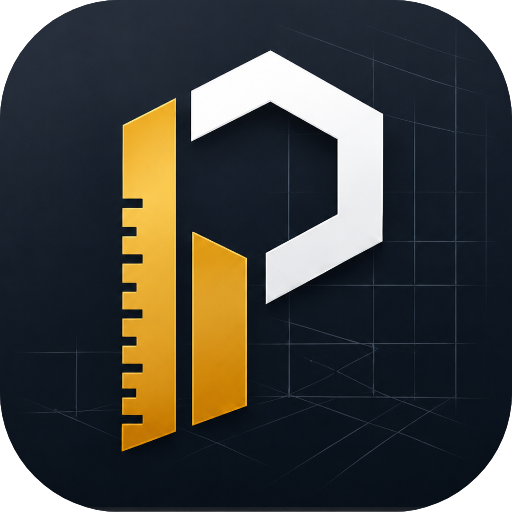
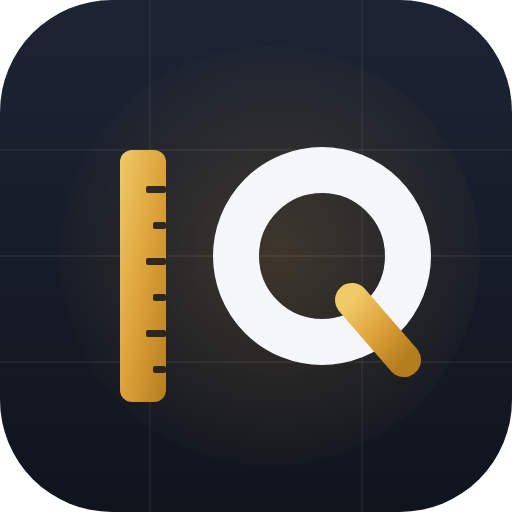
Renomeia o app para "Quantiza" com novo ícone (marca Q)
"Prumo IA" já estava registrado; troca para Quantiza (de "quantitativo").
Mantém a identidade aprovada (azul-marinho + dourado + malha de planta),
trocando a marca de P para Q.

- Novo ícone: régua dourada + "Q" branco (com cauda dourada) sobre o tile
  navy com malha; SVG-fonte + PNGs 192/512 e apple-touch regenerados.
- Nome trocado em título, meta, apple-title, cabeçalhos (login e app),
  manifest, README e CLAUDE.md. Wordmark "Quanti·za" (za em dourado).
- Slogan: "Inteligência que quantifica sua obra". Versão 5.3, cache v29.

Paleta e tema claro/escuro inalterados. Repositório e URL do GitHub Pages
continuam "levantamento-obra".

Testado no navegador: título e cabeçalho "Quantiza" com o novo ícone, sem
erros de página.

Claude-Session: https://claude.ai/code/session_01XvWdRauVmr8EZz24E2LHMu

diff --git a/index.html b/index.html
@@ -5,12 +5,12 @@
   <meta http-equiv="Content-Security-Policy" content="default-src 'self'; script-src 'self'; style-src 'self' 'unsafe-inline'; img-src 'self' data: blob:; font-src 'self'; connect-src 'self' https://*.supabase.co https://api.anthropic.com; worker-src 'self'; object-src 'none'; base-uri 'self'; form-action 'self'" />
   <meta name="viewport" content="width=device-width, initial-scale=1.0" />
   <meta name="theme-color" content="#161e29" />
-  <meta name="description" content="Prumo IA — levantamento de quantitativos de obra a partir de plantas em PDF, com IA de visão, medição precisa e orçamento" />
+  <meta name="description" content="Quantiza — levantamento de quantitativos de obra a partir de plantas em PDF, com IA de visão, medição precisa e orçamento" />
   <meta name="mobile-web-app-capable" content="yes" />
   <meta name="apple-mobile-web-app-capable" content="yes" />
   <meta name="apple-mobile-web-app-status-bar-style" content="black-translucent" />
-  <meta name="apple-mobile-web-app-title" content="Prumo IA" />
-  <title>Prumo IA — levantamento de obra</title>
+  <meta name="apple-mobile-web-app-title" content="Quantiza" />
+  <title>Quantiza — levantamento de obra</title>
   <link rel="manifest" href="manifest.json" />
   <link rel="icon" type="image/png" sizes="192x192" href="icons/icon-192.png" />
   <link rel="icon" type="image/png" sizes="512x512" href="icons/icon-512.png" />
@@ -23,8 +23,8 @@
     <div class="login-caixa">
       <div class="login-marca">
         <img src="icons/icon-192.png" alt="" />
-        <h1>Prumo <span>IA</span></h1>
-        <p class="marca-slogan">Intelig&ecirc;ncia que constr&oacute;i precis&atilde;o</p>
+        <h1>Quanti<span>za</span></h1>
+        <p class="marca-slogan">Intelig&ecirc;ncia que quantifica sua obra</p>
       </div>
       <p class="dica" id="login-msg">Entre com sua conta para acessar.</p>
       <label class="campo-label">E-mail</label>
@@ -50,7 +50,7 @@
   <header class="topbar">
     <div class="marca">
       <img src="icons/icon-192.png" alt="" />
-      <h1 class="titulo">Prumo <span>IA</span></h1>
+      <h1 class="titulo">Quanti<span>za</span></h1>
     </div>
 
     <div class="proj-ctrl">
@@ -191,8 +191,8 @@
           <span id="selo-plano" class="selo-plano" hidden></span>
           <a href="#" id="lnk-planos">Ver planos</a>
         </p>
-        <p class="dica" id="versao-app">Prumo IA &middot; Intelig&ecirc;ncia que constr&oacute;i precis&atilde;o</p>
-        <p class="dica" style="margin-top:2px">Vers&atilde;o 5.2 &middot; 23/07/2026</p>
+        <p class="dica" id="versao-app">Quantiza &middot; Intelig&ecirc;ncia que quantifica sua obra</p>
+        <p class="dica" style="margin-top:2px">Vers&atilde;o 5.3 &middot; 23/07/2026</p>
       </section>
     </aside>
   </main>

diff --git a/sw.js b/sw.js
@@ -1,5 +1,5 @@
 // Service Worker — Levantamento de Obra
-const CACHE = 'levantamento-v28';
+const CACHE = 'levantamento-v29';
 const ASSETS = [
   './',
   './index.html',

diff --git a/CLAUDE.md b/CLAUDE.md
@@ -1,14 +1,14 @@
-# Prumo IA — guia do projeto
+# Quantiza — guia do projeto
 
-**Prumo IA** (antes "Levantamento de Obra") — app web (PWA) de levantamento de
-quantitativos de obra a partir de plantas em PDF, inspirado num app visto em
-reel do Instagram e expandido para coordenação de obra completa. Interface
-100% em pt-BR. O nome só mudou na marca (título, manifest, ícone); o
-repositório e a URL do GitHub Pages continuam `levantamento-obra`.
+**Quantiza** (antes "Prumo IA" / "Levantamento de Obra") — app web (PWA) de
+levantamento de quantitativos de obra a partir de plantas em PDF, inspirado
+num app visto em reel do Instagram e expandido para coordenação de obra
+completa. Interface 100% em pt-BR. O nome só muda na marca (título, manifest,
+ícone); o repositório e a URL do GitHub Pages continuam `levantamento-obra`.
 Identidade: acento **dourado** (`--laranja*` guardam o dourado da marca) e
-fundo **azul-marinho**; slogan "Inteligência que constrói precisão". Ícone é
-PNG (`icons/icon-192/512`, sem mais `icon.svg`); fontes da marca em
-`docs/marca/`.
+fundo **azul-marinho**; marca "Q" (régua dourada + Q) e slogan "Inteligência
+que quantifica sua obra". Ícone em `icons/icon-192/512` (PNG gerados do
+`icons/icon.svg`); tema claro opcional (`data-tema="claro"`).
 
 - **App no ar:** https://jonatangoncalves3aj.github.io/levantamento-obra/
 - **Repositório:** jonatangoncalves3Aj/levantamento-obra (branch `main`)

diff --git a/README.md b/README.md
@@ -1,6 +1,6 @@
-# Prumo IA
+# Quantiza
 
-**Prumo IA** — app web para **levantamento de quantitativos de obra a partir de plantas em PDF**, com IA de visão e medição precisa. 100% no navegador, offline-first (PWA), sem enviar nenhum arquivo para servidor.
+**Quantiza** — app web para **levantamento de quantitativos de obra a partir de plantas em PDF**, com IA de visão e medição precisa. 100% no navegador, offline-first (PWA), sem enviar nenhum arquivo para servidor.
 
 **Acesse:** https://jonatangoncalves3aj.github.io/levantamento-obra/
 